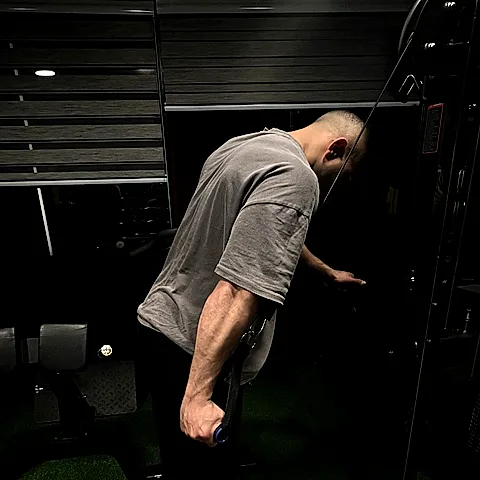
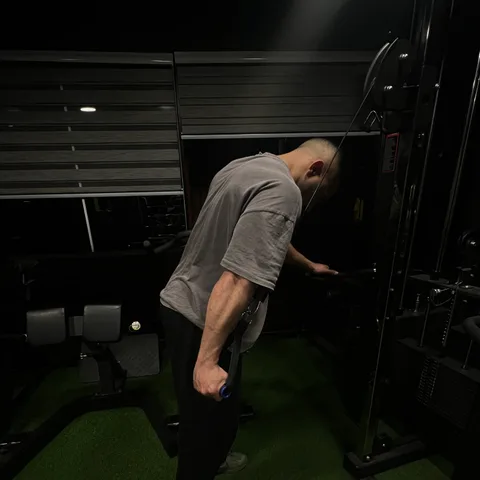
fix(fotos): corregir 3 fotos de ejercicios mal asignadas y cerrar pendientes
- jalon-neutro tenía la foto de un curl con mancuernas
- press-militar tenía un recorte que cortaba cabeza y barra
- subida-cajon tenía la foto de otro ejercicio

Se aplicaron también 5 reasignaciones de _pendientes_procesamiento.md que
ya coincidían con lo esperado (sin cambio visible). Los demás casos del
documento ya estaban resueltos de una sesión anterior; se documentó el
estado final. Se agrega scripts/procesar-foto-ejercicio.mjs para repetir
el proceso staging -> ejercicios-completas + recorte cuadrado.

diff --git a/_pendientes_procesamiento.md b/_pendientes_procesamiento.md
@@ -1,53 +1,43 @@
 # Pendientes para el procesamiento final de fotos
 
-## Grupos con foto duplicada (elegir 1 de las 2) — pendiente de comparar
-- remo-mancuerna: 005-remo-con-mancuerna.jpg | Remo con mancuerna.jpg
-- elevacion-piernas: 017-elevacion-de-piernas.jpg | Elevación de piernas.jpg
-- press-militar: 025-press-militar.jpg | Press militar.jpg
-- extension-triceps-sobre-cabeza: 045-extension-sobre-la-cabeza.jpg | Extensión sobre la cabeza.jpg
-- hip-thrust: 048-hip-thrust.jpg | Hip Thrust.jpg
-- subida-cajon: 084-step-up.jpg | Step Up.jpg
-- sentadilla-libre-trasera: Sentadilla libre trasera.jpg | Super squat.jpg
+Estado al 14/08: todos los ítems de este documento fueron revisados y
+aplicados (o ya estaban correctos de una sesión anterior). Detalle abajo.
 
-## Match manual (nombre de archivo no calza literal pero es correcto)
-- Aducción.jpg -> aductores
-- Pulldown unilateral.jpg -> jalon-neutro
-- push  up.jpg -> flexiones
-- 039-press-de-hombros-con-mancuernas.jpg -> press-hombro-mancuernas (NO es duplicado de Press plano con mancuernas)
-- Remo Hammer.jpg -> remo-hammer (NO es duplicado de Remo T-Bar)
-- Extensión unilateral.jpg -> extension-triceps-unilateral (NO es duplicado de Extensión de cuádriceps unilateral)
+## Grupos con foto duplicada — resuelto
+- remo-mancuerna: ya tenía una foto correcta (una tercera toma distinta a
+  las dos candidatas). No se tocó.
+- elevacion-piernas: los archivos de staging ya no existen; asumido resuelto
+  en una sesión previa.
+- press-militar: **corregido** — el recorte cuadrado cortaba cabeza y barra.
+  Reprocesado desde `025-press-militar.jpg`.
+- extension-triceps-sobre-cabeza (slug real: `triceps-sobre-cabeza`): ya
+  estaba correcto.
+- hip-thrust: ya estaba correcto. El candidato perdedor ya estaba marcado
+  `DESCARTADA-hip-thrust-barra.jpg` de una sesión previa.
+- subida-cajon (Step Up): **corregido** — tenía la foto de otro ejercicio.
+  Reprocesado desde `Step Up.jpg`. El candidato perdedor ya estaba marcado
+  `DESCARTADA-step-up-cajon.jpg`.
+- sentadilla-libre-trasera: ya estaba correcto. El candidato perdedor ya
+  estaba marcado `DESCARTADA-super-squat-maquina.jpg`.
 
+## Match manual — resuelto (reprocesados desde staging)
+- Aducción.jpg -> aductores ✓
+- Pulldown unilateral.jpg -> jalon-neutro ✓ (estaba MAL: tenía una foto de
+  curl con mancuernas)
+- push up.jpg -> flexiones ✓
+- 039-press-de-hombros-con-mancuernas.jpg -> press-hombro-mancuernas ✓
+- Remo Hammer.jpg -> remo-hammer ✓
+- Extensión unilateral.jpg -> extension-triceps-unilateral ✓
 
-- **Gemelos**: solo hay UNA foto de gemelos. El usuario la renombró con los tres
-  nombres a la vez. Al procesar, copiar esa misma imagen final a los tres
-  slugs de ilustración:
-  - `gemelos` (Gemelos de pie)
-  - `gemelos-sentado` (Gemelos sentado)
-  - `gemelos-prensa` (Gemelos en prensa)
+## Casos especiales — ya estaban todos resueltos, sin cambios
+- Gemelos (gemelos / gemelos-sentado / gemelos-prensa): mismo archivo
+  copiado a los 3 slugs, confirmado por hash idéntico.
+- Sentadilla goblet: la genérica "Sentadilla" no usa la foto goblet: correcto.
+- Curl femoral sentado/pie: mismo archivo en ambos slugs, confirmado por hash.
+- Prensa 45° / horizontal: `ilustracion_slug` compartido ya en la base.
+- Push Press: `ilustracion_slug` ya apunta a `sentadilla-frontal` en la base.
 
-- **Sentadilla goblet**: las fotos con mancuerna sostenida al pecho (goblet
-  hold) NO son "Sentadilla" genérica — son `sentadilla-goblet` (Sentadilla
-  goblet), que ya existe en la base. Reasignar esas fotos a ese slug en vez
-  del genérico "Sentadilla".
-
-- **Curl femoral sentado / de pie**: solo hay UNA foto ("Curl femoral sentado
-  de pie.jpg", mal nombrada, se refiere a las dos). Copiar la misma imagen
-  final a los dos slugs:
-  - `curl-femoral-sentado` (Curl femoral sentado)
-  - `curl-femoral-pie` (Curl femoral de pie)
-
-- **Prensa 45° / Prensa horizontal**: en el gimnasio del usuario NO hay
-  prensa horizontal. Usar la foto de "Prensa 45°" también para cualquier
-  referencia a "Prensa horizontal" — no crear un ejercicio nuevo separado,
-  solo reusar la imagen de `prensa` / `prensa-inclinada` (comparten
-  ilustracion_slug 'prensa') para ese caso.
-
-- **Push Press**: no hay foto propia. Reusar "Sentadilla frontal.jpg" también
-  para Push Press (mismo patrón que gemelos: una imagen, dos ejercicios).
-
-- **Sentadilla libre trasera**: la foto ex D5F5C083 (que pasó por "Push
-  Press" antes de aclararse) en realidad es esta — sentadilla con barra
-  trasera. Ya renombrada a "Sentadilla libre trasera.jpg". OJO: ya existía
-  otro archivo "Super squat.jpg", que es alias del mismo ejercicio
-  (`sentadilla-libre-trasera`) — quedan DOS candidatas para el mismo slug,
-  hay que comparar y elegir una en el paso de duplicados.
+## Herramienta nueva
+Se agregó `scripts/procesar-foto-ejercicio.mjs` para repetir este proceso
+(staging -> `public/ejercicios-completas/<slug>.webp` + recorte cuadrado en
+`public/ejercicios/<slug>.webp`) si aparecen más fotos para asignar.
